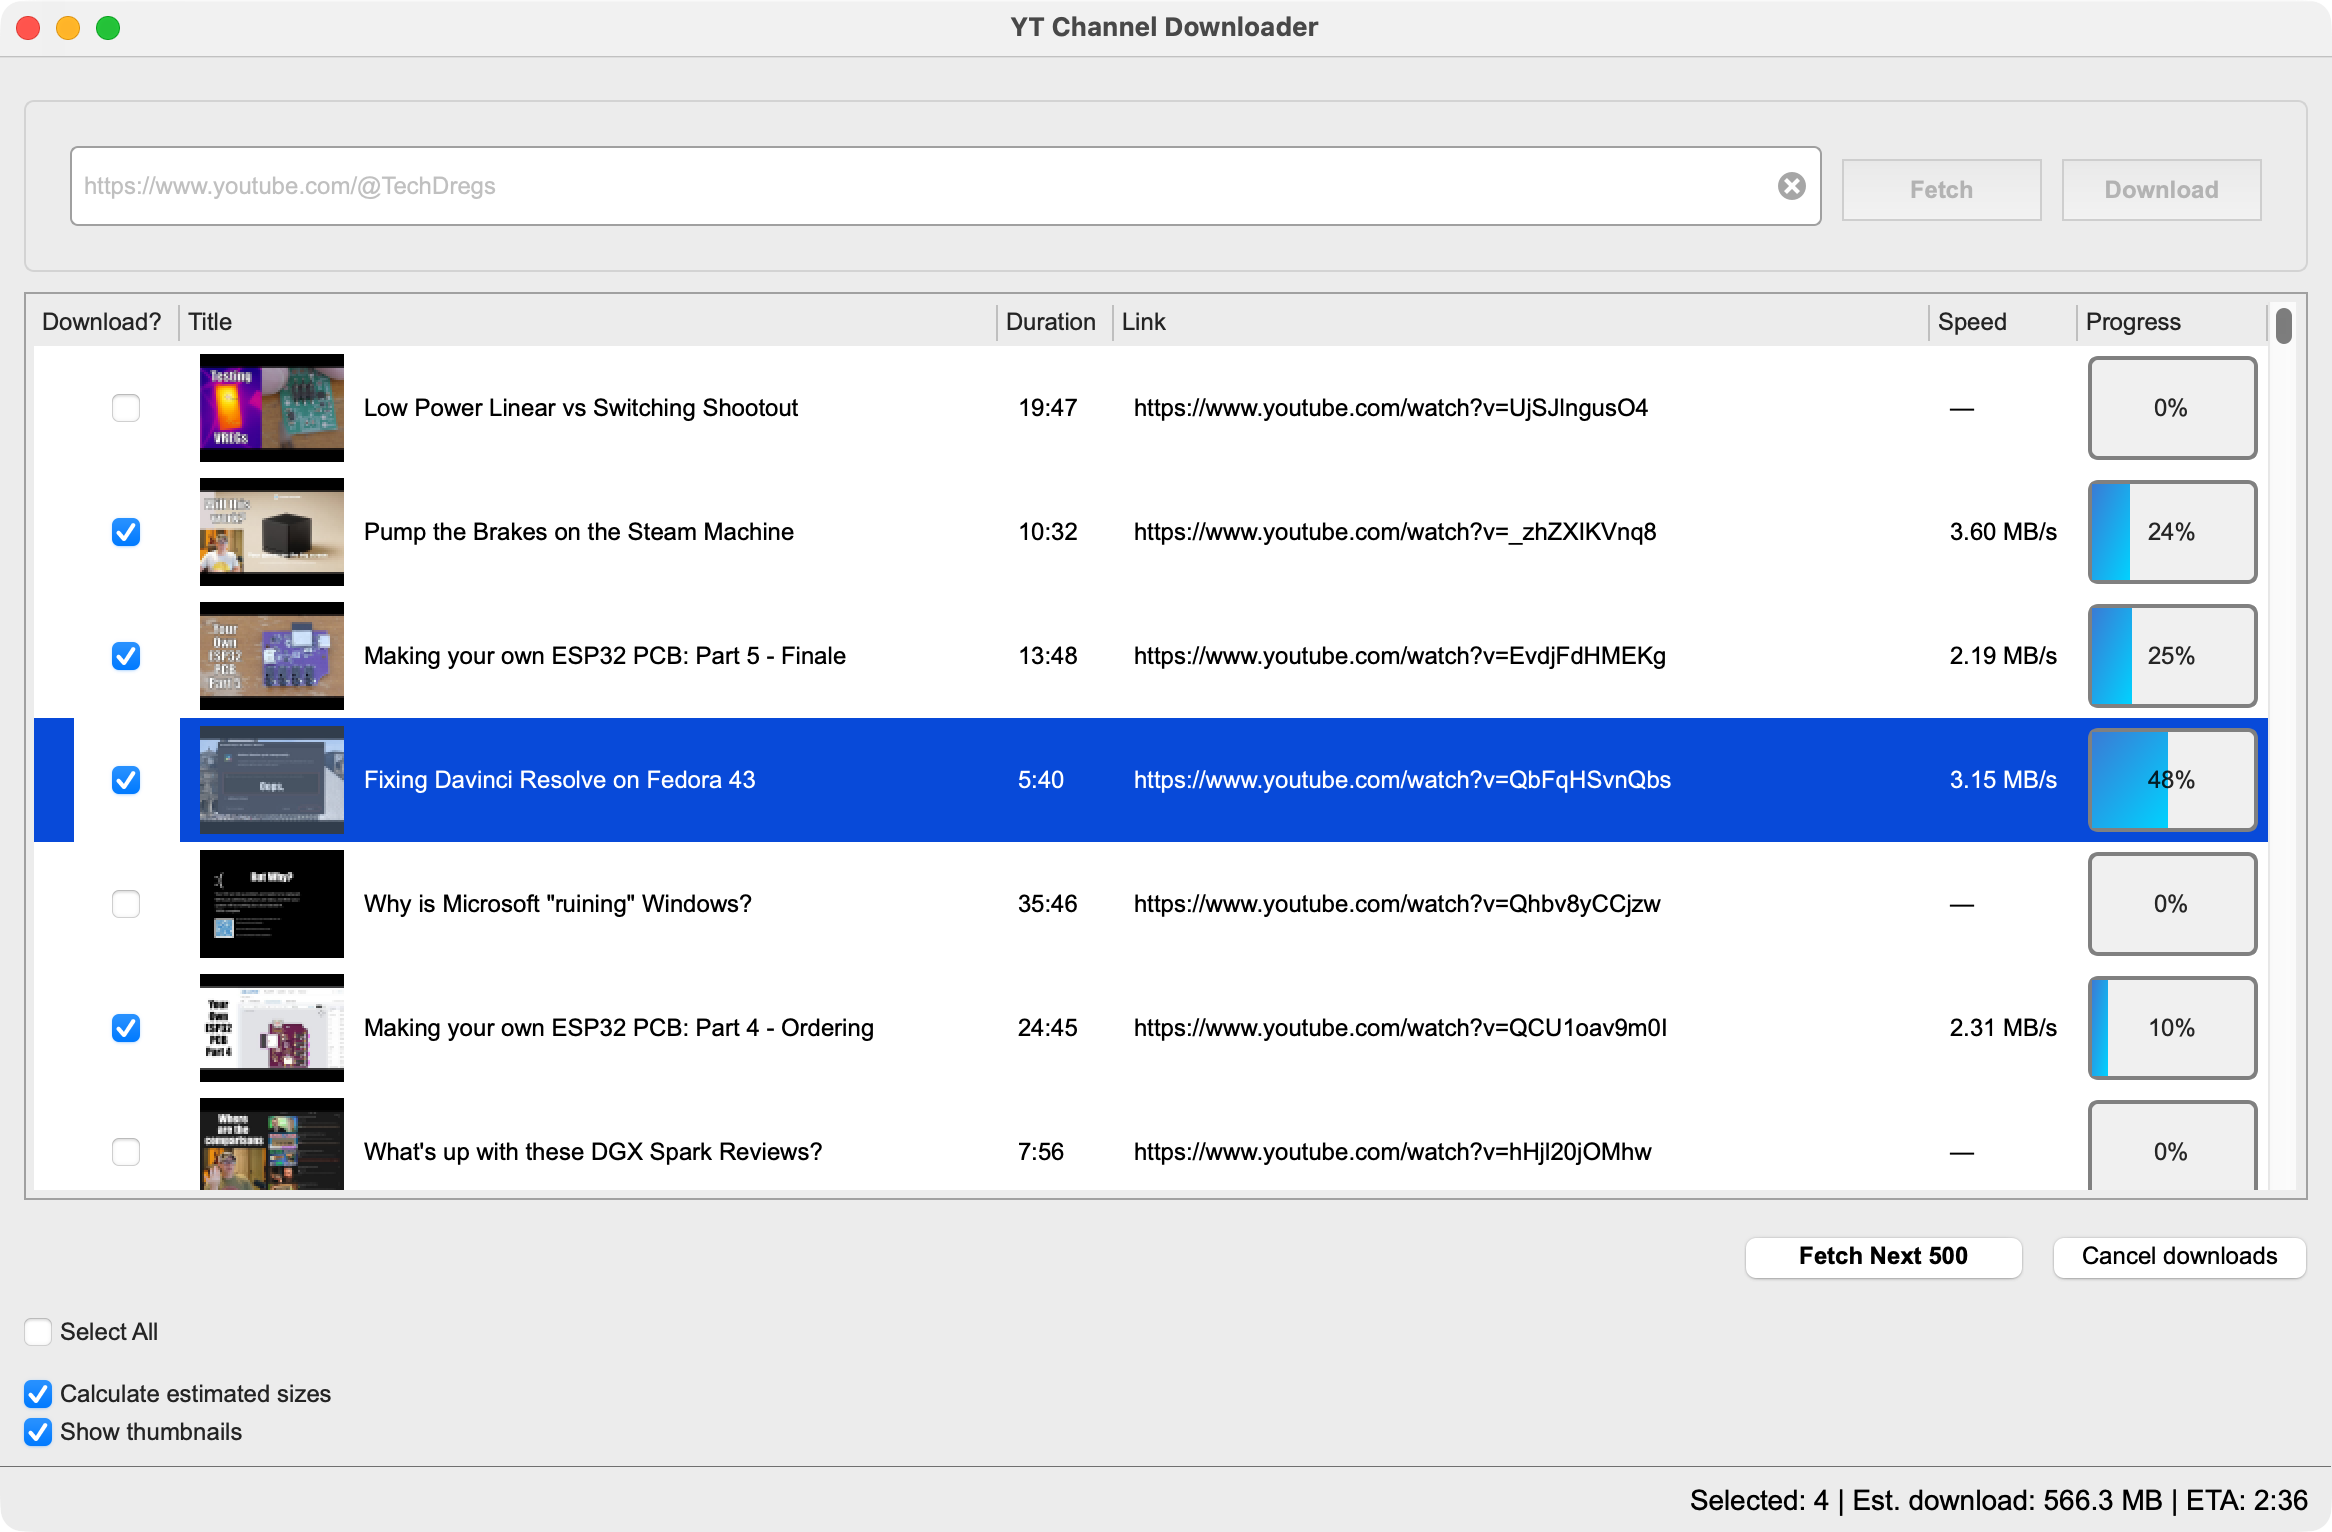
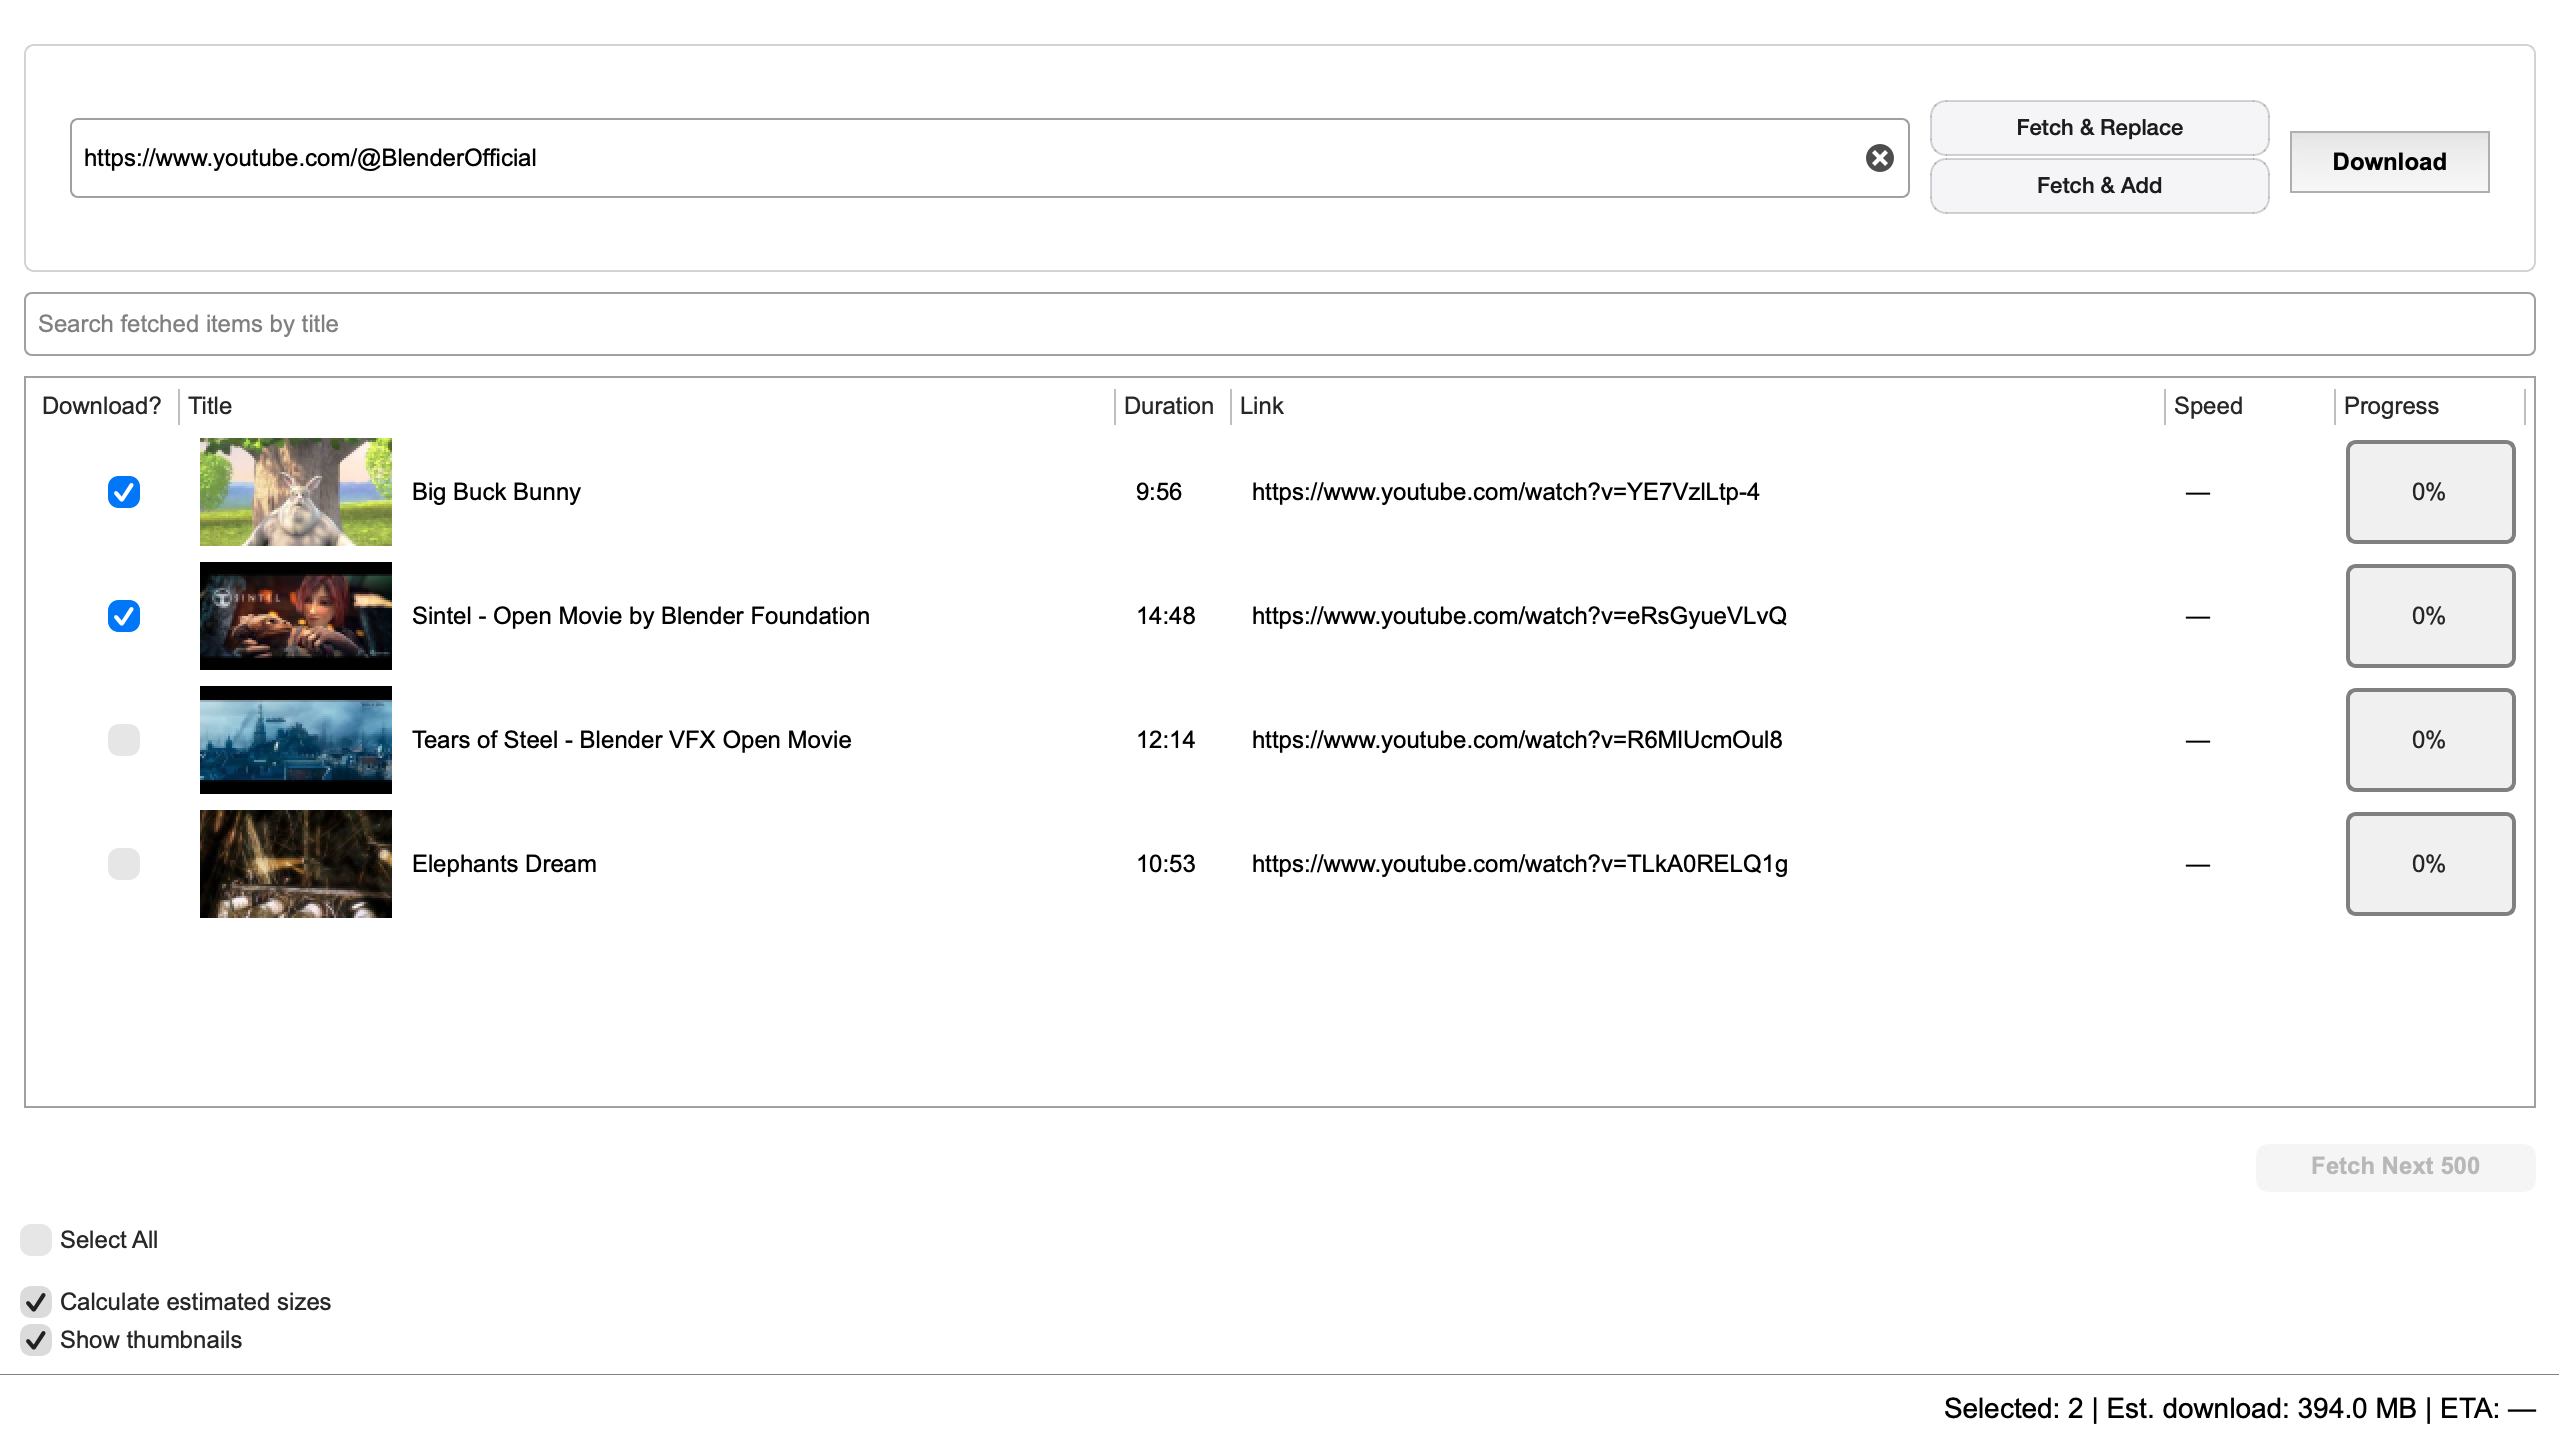
docs(readme): add current macOS screenshots and animated demos

diff --git a/docs/images/README.md b/docs/images/README.md
@@ -1,6 +1,6 @@
 # Screenshots and demos
 
-The README includes version 0.9.0 captures from Linux and Windows.
+The README includes version 0.9.0 captures from Linux, Windows, and macOS.
 
 ## Linux captures
 
@@ -40,6 +40,48 @@ For future Linux captures, use the matching release, include the whole app windo
 keep text legible, and retain the native platform label. Recapture video and
 audio Settings separately so their enabled controls are clear.
 
+## macOS captures
+
+Captured from **version 0.9.0 on 2026-11-01**, on macOS 26.6.2 (Apple Silicon),
+using Qt 6.12.0's native macOS widget style in light mode. These images contain
+the running application's window contents, without desktop backgrounds or
+window frames. They replace the historical November 2025 macOS screenshot.
+
+| File | Contents | Size |
+| --- | --- | --- |
+| `screenshot_mac.png` | Movie thumbnails, two selected items, and size estimates | 2560 × 1440 |
+| `ytdl-settings_mac.png` | 1080p MP4 output, fetch limits, and proxy controls | 1908 × 1164 |
+| `settings-audio_mac.png` | Audio-only FLAC output with bitrate disabled | 1908 × 1164 |
+| `yt-chan-dl-mac.gif` | Title filtering, item selection, and Select All | 1280 × 720 |
+| `yt-channel-downloader-demo-mac.gif` | Live fetch, filter, select, download, and completion | 1100 × 773 |
+
+The stills retain Retina resolution. The shorter `yt-chan-dl-mac.gif` loops for
+approximately **8.2 seconds**, recording interactions with offline demonstration
+listings and estimates, using the same Blender movie thumbnails as the Windows
+captures. It does not include a media transfer.
+Video Settings show 500/100 channel/playlist fetch limits; these are example
+values, rather than the default 500/50 limits. Audio Settings demonstrate FLAC
+with the bitrate control disabled.
+
+### Workflow animation
+
+The README's `yt-channel-downloader-demo-mac.gif` records a real fetch of eight
+entries from [Blender's public channel](https://www.youtube.com/@BlenderOfficial),
+typing a title filter, selecting
+[Blender Conference 2026 Recap](https://www.youtube.com/watch?v=sO_lhW8av3U),
+clearing the filter, and downloading the video as 480p MP4 through completion.
+FFprobe verified the completed file's 480p video and audio streams.
+
+The animation has **124 frames at 8 fps**, lasts **15.51 seconds**, and loops.
+Waiting time and repetitive transfer frames were cut from the approximately
+52-second recording. The transfer was limited to 512 KiB/s to keep progress
+visible. FFmpeg used a shared palette and encoded changes between frames; the
+GIF is **345,590 bytes**. The fetch dialog's real widget capture is composited at
+its position over the main window. No progress or provider results are simulated.
+
+Regenerate on macOS with the capture helper described below. It uses an isolated
+temporary profile and leaves the user's settings untouched.
+
 ## Windows captures
 
 The README shows the actual version 0.9.0 Qt interface captured on Windows.
@@ -52,7 +94,7 @@ Cached thumbnails make captures repeatable without fetching YouTube data.
 The capture process uses a temporary profile, disables login prompts, update
 checks and background network workers, and leaves the user's settings untouched.
 
-### Regenerating
+## Regenerating Windows and macOS captures
 
 From an activated project environment, run:
 
@@ -68,19 +110,35 @@ python scripts/capture_readme.py --output-dir build/readme-capture
 ```
 
 On Windows, these commands produce `screenshot_win.png`,
-`ytdl-settings_win.png`, and `yt-chan-dl-win.gif`. Pillow is only needed by the
-capture helper, not by the application.
+`ytdl-settings_win.png`, `settings-audio_win.png`, and `yt-chan-dl-win.gif`.
+On macOS they produce the three stills and the shorter
+`yt-chan-dl-mac.gif` listed above.
+Pillow is only needed by the capture helper, not by the application.
 
 Windows captures use Qt's WindowsVista style for consistent rendering and
 readable button labels. Use `--style NAME` to choose another installed Qt style.
 The script hides its windows from the desktop while capturing their widgets.
+On macOS it uses Qt's Cocoa platform plugin and native macOS widget style.
 
 Capture on the operating system being documented. The helper names Linux
 outputs with `lin` and macOS outputs with `mac`; it does not emulate platform
-appearance. The Linux gallery above has its own recordings. Updated native
-macOS captures can replace the historical image after review.
+appearance. The Linux gallery above has its own recordings.
 
-### Thumbnail attribution
+To record the full workflow animation, install the external requirements from
+the main README, then run on macOS:
+
+```bash
+python scripts/capture_readme_workflow.py
+```
+
+This recorder contacts YouTube and downloads one video into a temporary folder.
+It writes `yt-channel-downloader-demo-mac.gif` under `docs/images/`, and retains
+raw frames and capture metadata under `build/readme-workflow/`. Normal app
+settings are untouched. Use `--output-dir build/readme-workflow-preview` for a
+preview. `--url` and `--filter` can select another source and a title with exactly
+one match if the example video moves out of the channel's first eight entries.
+
+## Thumbnail attribution
 
 The JPEG files under `fixtures/` were copied without modification from the
 official Blender YouTube uploads. The application scales these thumbnails
@@ -97,9 +155,3 @@ it is not covered by the application's MIT license.
 Each original thumbnail URL has the form
 `https://i.ytimg.com/vi/VIDEO_ID/mqdefault.jpg`, using the corresponding fixture
 filename as `VIDEO_ID`.
-
-## Earlier platform images
-
-`screenshot_mac.png` was last updated in November 2025 and remains in the
-README's historical gallery. Capture an updated image on macOS before replacing
-it or labeling it as the current interface.

diff --git a/README.md b/README.md
@@ -48,11 +48,26 @@ filtering and download selection.
 </details>
 
 <details>
-<summary>Earlier macOS screenshot</summary>
+<summary>Current screenshots and animation (macOS, version 0.9.0)</summary>
 
-This image is from an earlier release and shows older controls and labels.
+Recorded on macOS using [Blender's public YouTube channel](https://www.youtube.com/@BlenderOfficial).
+The 16-second animation shows fetching, filtering, selection, download progress,
+and completion, with waiting time omitted. The still screenshots below use
+demonstration data.
 
-![Earlier macOS main window](docs/images/screenshot_mac.png)
+![YT Channel Downloader 0.9.0 demo on macOS: fetch, filter, select, download, and completion](docs/images/yt-channel-downloader-demo-mac.gif)
+
+**Main window**
+
+![Current macOS main window with fetch controls, title search, thumbnails, selection, and size estimates](docs/images/screenshot_mac.png)
+
+**Video settings**
+
+![macOS video settings with MP4 output, a maximum resolution, and channel and playlist fetch limits](docs/images/ytdl-settings_mac.png)
+
+**Audio settings**
+
+![macOS audio-only settings with FLAC selected and the inapplicable bitrate control disabled](docs/images/settings-audio_mac.png)
 
 </details>
 
